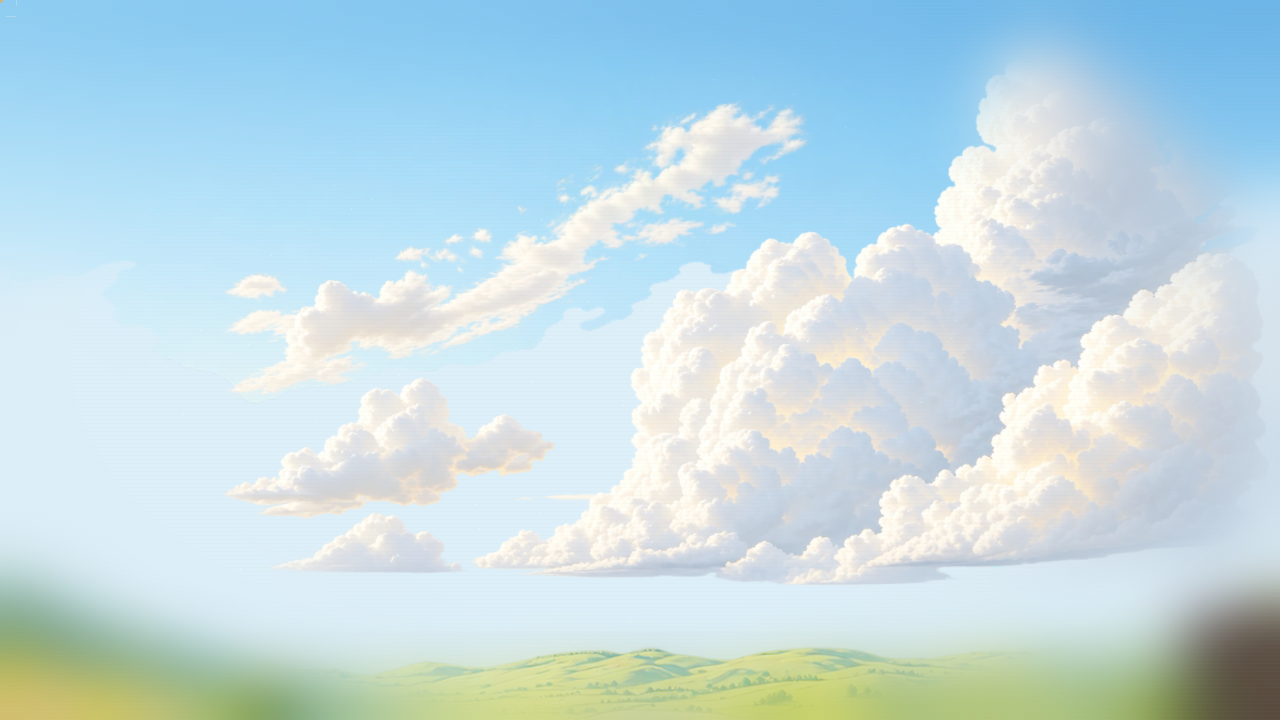
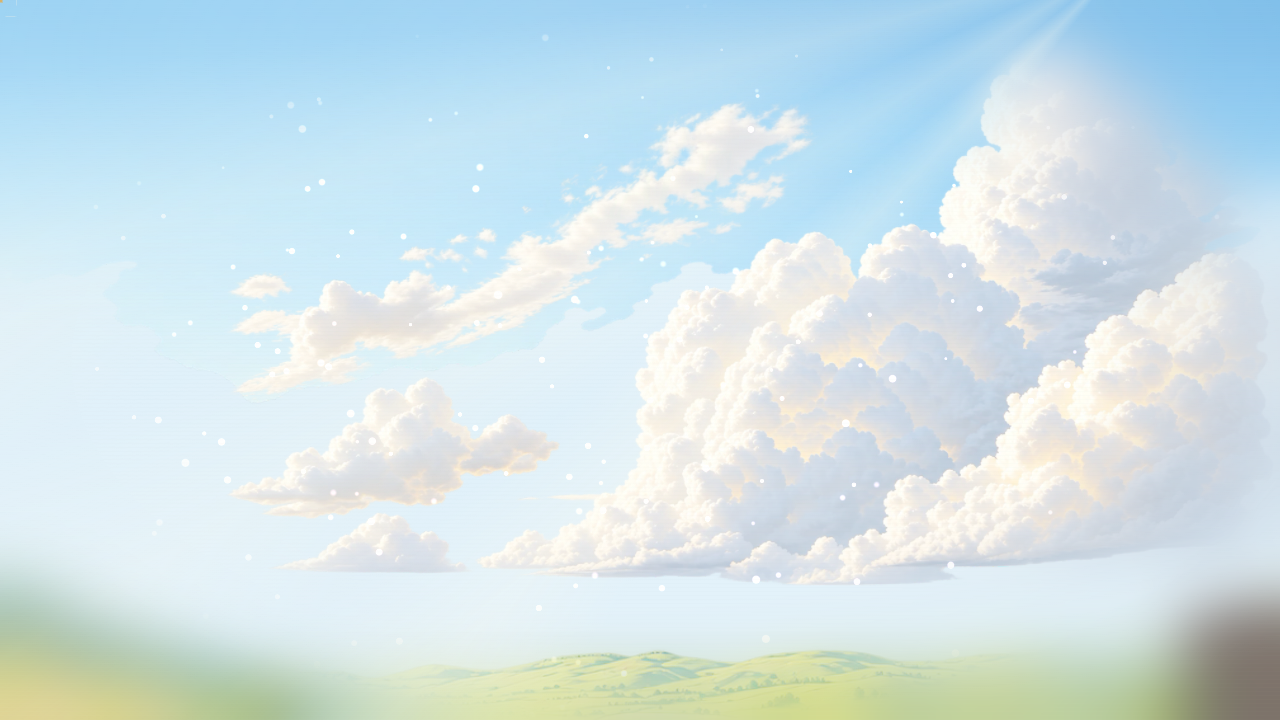
paradise pass (Yash's reference): dreamy veil + sun rays, centred title, motes reborn as drifting petals

diff --git a/src/styles/main.css b/src/styles/main.css
@@ -4483,7 +4483,7 @@ html.bh-final .sweep { display: none !important; }
   position: absolute;
   z-index: 7;                            /* over the film, under the machine */
   left: 34%;
-  top: 46%;
+  top: 41%;
   width: 46vw;
   height: 34vh;
   pointer-events: none;
@@ -5768,20 +5768,34 @@ canvas.market-camera3d {
 }
 .consult-meet__title {
   z-index: 6;
-  /* CLOSEUP composition (1 Sep): at frame-filling scale the arms run
-     upper-left -> centre -> lower-right, so a centred title sits ON the green
-     forearm. The lower-left quadrant is the one area both arms leave empty. */
+  /* PARADISE composition (Yash's reference, 2 Sep): title centred between the
+     recoiled fists, like the reference's floating word. */
   position: absolute;
-  left: clamp(1.5rem, 6vw, 7rem);
-  bottom: clamp(4rem, 16vh, 11rem);
-  top: auto;
-  transform: scale(calc(0.94 + var(--meet-title, 0) * 0.06));
-  /* meadow beat: bright parallax sky behind the type — shadow keeps it legible */
-  text-shadow: 0 1px 2px rgba(6, 24, 16, 0.55), 0 4px 18px rgba(6, 24, 16, 0.45);
-  transform-origin: left bottom;
-  text-align: left;
+  left: 50%;
+  top: 41%;
+  bottom: auto;
+  transform: translate(-50%, -50%) scale(calc(0.94 + var(--meet-title, 0) * 0.06));
+  text-shadow: 0 1px 2px rgba(6, 24, 16, 0.35), 0 4px 22px rgba(255, 255, 255, 0.55);
+  transform-origin: center center;
+  text-align: center;
   opacity: var(--meet-title, 0);
-  width: min(80vw, 34rem);
+  width: min(84vw, 40rem);
+}
+
+/* dreamy veil + sun rays from the top-right (static, deterministic) */
+.consult-meet__veil {
+  position: absolute;
+  inset: 0;
+  pointer-events: none;
+  z-index: 3;
+  opacity: calc(var(--meet-bg, 0) * 0.85);
+  background:
+    conic-gradient(from 218deg at 88% -6%,
+      rgba(255,255,255,0) 0deg, rgba(255,252,240,0.28) 6deg,
+      rgba(255,255,255,0) 13deg, rgba(255,252,240,0.20) 20deg,
+      rgba(255,255,255,0) 28deg, rgba(255,252,240,0.24) 37deg,
+      rgba(255,255,255,0) 46deg, rgba(255,255,255,0) 360deg),
+    radial-gradient(ellipse 120% 90% at 50% 8%, rgba(255,255,255,0.34), rgba(255,255,255,0.10) 55%, rgba(255,255,255,0.26) 100%);
 }
 .consult-meet__title strong {
   /* the act's own serif voice (matches the opening copy's Instrument

diff --git a/src/gl/consultMeet.js b/src/gl/consultMeet.js
@@ -316,10 +316,11 @@ export function createConsultMeet(scene, _opts = {}) {
         vec3 p = position;
         p.x += sin(uTime * (0.1 + aSeed * 0.12) + aSeed * 40.0) * 0.5;
         p.y += sin(uTime * (0.07 + aSeed * 0.1) + aSeed * 60.0) * 0.35;
+        p.y -= mod(uTime * (0.12 + aSeed * 0.25) + aSeed * 9.0, 9.0) - 4.5;  // petal fall
         vA = 0.25 + 0.75 * (0.5 + 0.5 * sin(uTime * 0.5 + aSeed * 80.0));
         vec4 mv = modelViewMatrix * vec4(p, 1.0);
         gl_Position = projectionMatrix * mv;
-        gl_PointSize = (1.0 + aSeed * 2.2) * (uPx / 900.0) * (12.5 / -mv.z);
+        gl_PointSize = (6.0 + aSeed * 9.0) * (uPx / 900.0) * (12.5 / -mv.z);
       }
     `,
     fragmentShader: `
@@ -328,7 +329,7 @@ export function createConsultMeet(scene, _opts = {}) {
       void main() {
         vec2 q = gl_PointCoord - 0.5;
         float m = smoothstep(0.5, 0.1, length(q));
-        gl_FragColor = vec4(vec3(0.35, 0.85, 0.55), m * vA * uOpacity * 0.5);
+        gl_FragColor = vec4(vec3(0.99, 0.66, 0.80), m * vA * uOpacity * 0.95);  // petal pink
       }
     `,
   });
@@ -561,7 +562,7 @@ export function createConsultMeet(scene, _opts = {}) {
 
     const sparkT = smooth((p - 0.625) / 0.06);
     moteMaterial.uniforms.uTime.value = time;
-    moteMaterial.uniforms.uOpacity.value = on * smooth((p - 0.06) / 0.1) * (1 - bgOn * 0.7);
+    moteMaterial.uniforms.uOpacity.value = on * smooth((p - 0.06) / 0.1);  // petals live in the meadow beat
     sparkMaterial.uniforms.uSpark.value = sparkT;
     sparkMaterial.uniforms.uTime.value = time;
     sparkMaterial.uniforms.uOpacity.value = on;

diff --git a/index.html b/index.html
@@ -281,6 +281,7 @@
         <!-- the payoff title — set in the act's own serif voice (see the
              .consult-meet__title styles), landing only at the spark -->
         <div class="consult-meet__edgeblur" aria-hidden="true"></div>
+        <div class="consult-meet__veil" aria-hidden="true"></div>
         <div class="consult-meet__title">
           <strong>WE <em>SCALE.</em></strong>
           <p>AI executes. Humans direct.<br><em>Together, you scale.</em></p>
